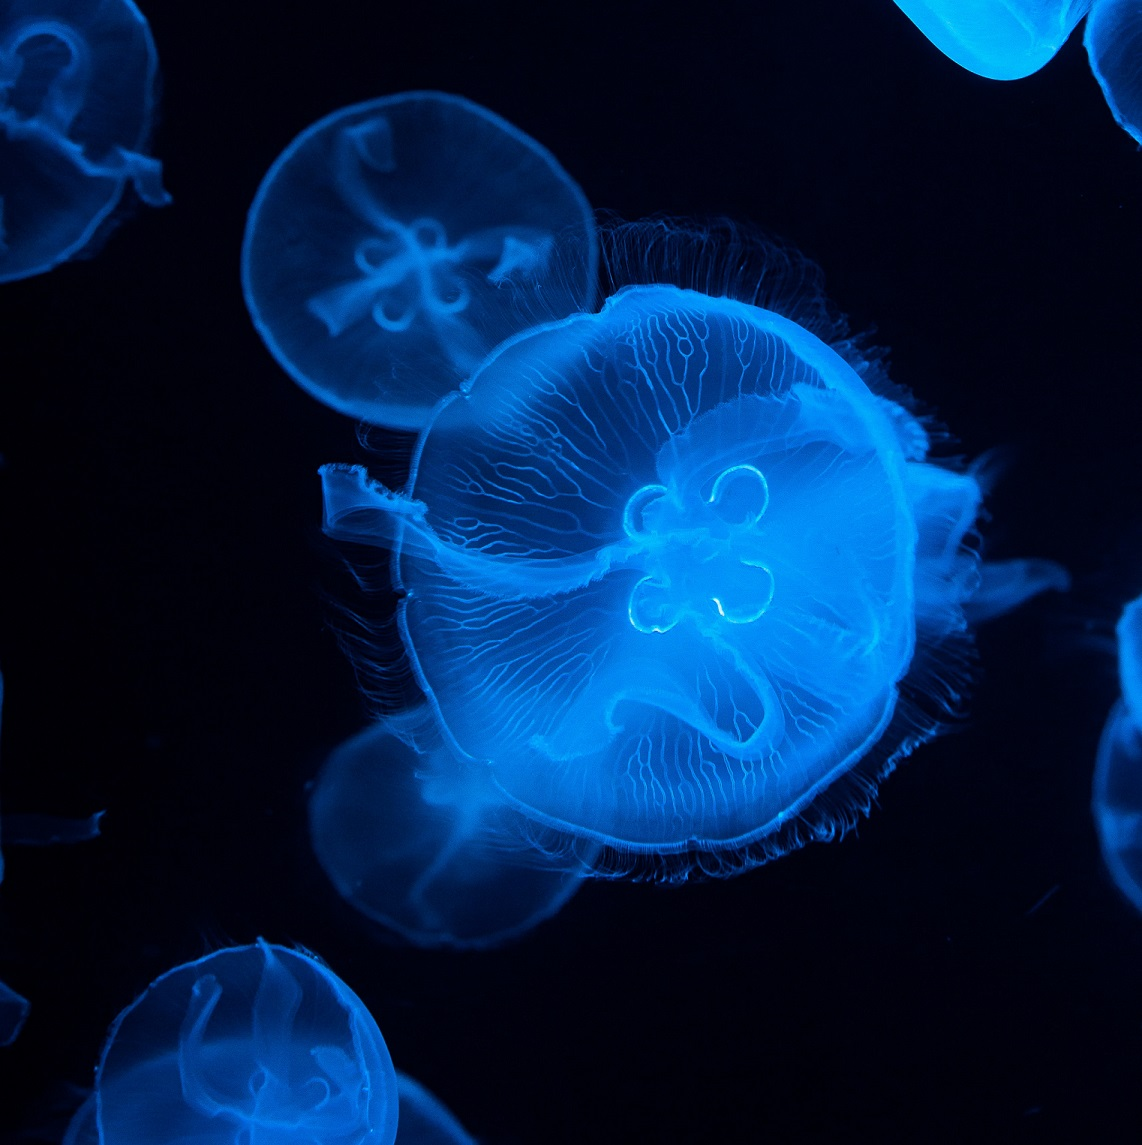
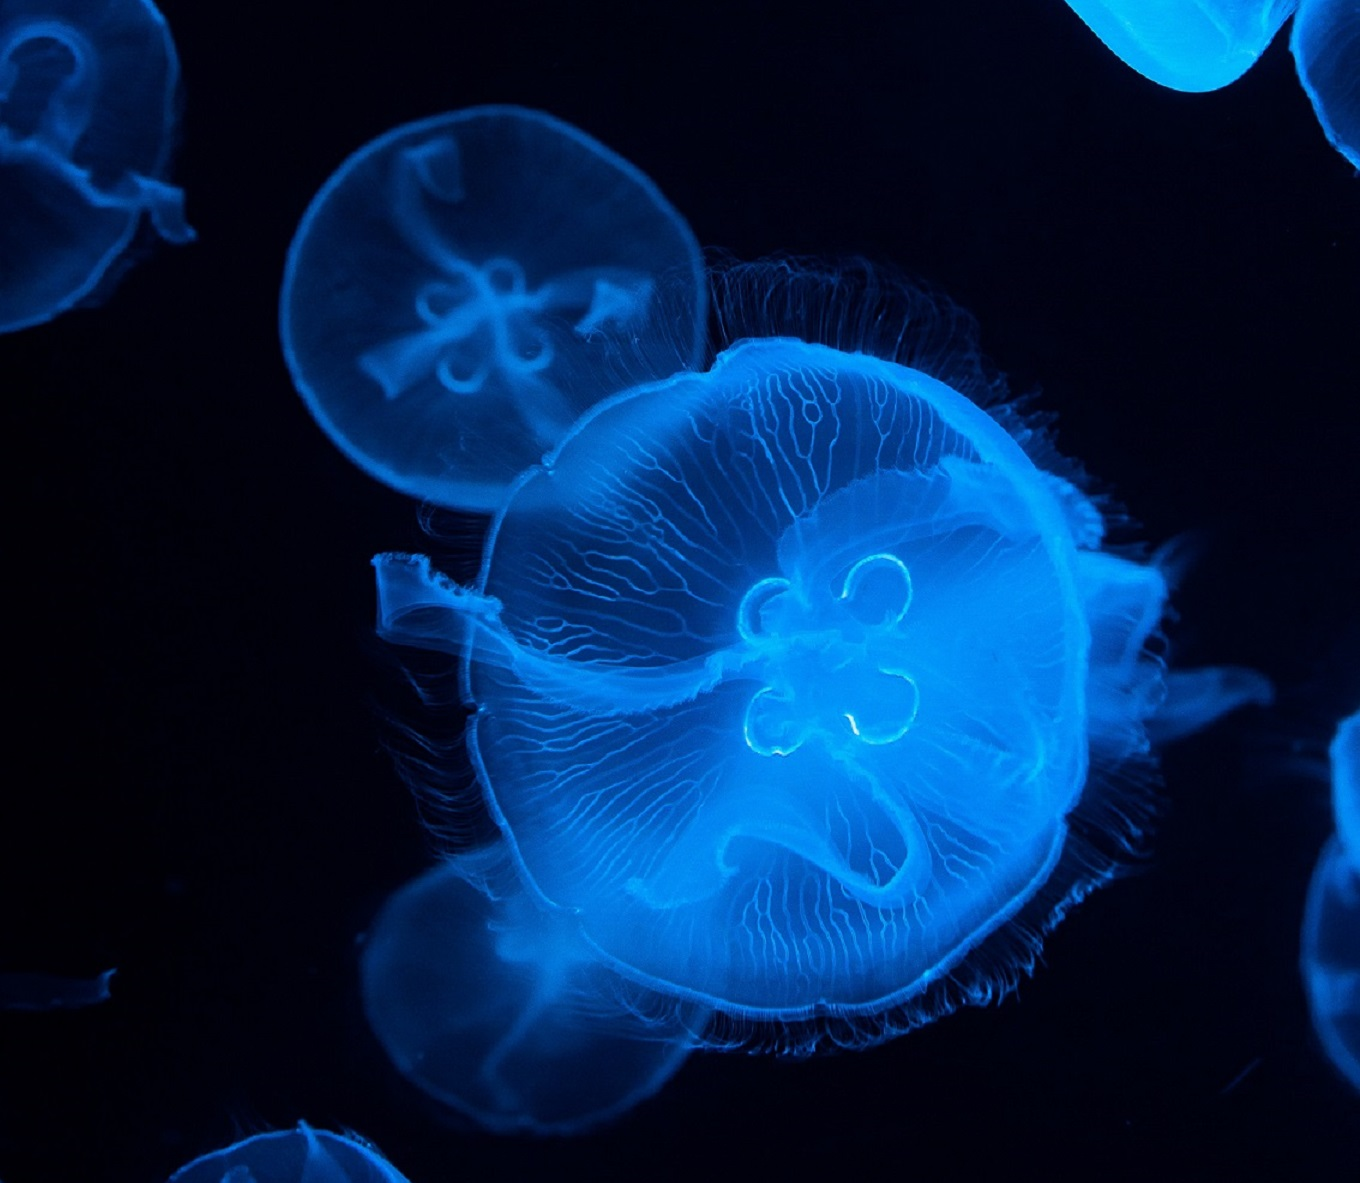
resized dive app photo

diff --git a/README.md b/README.md
@@ -8,4 +8,5 @@ Deployed at: https://starnes-development-portfolio.netlify.app/
 
 Photo Credits:
 -https://www.pexels.com/photo/wood-bird-art-construction-9891049/
--https://upload.wikimedia.org/wikipedia/commons/1/1d/US_Navy_110629-N-XD935-058_Chilean_navy_divers_walk_along_the_ocean_floor_during_diving_operations.jpg
+-https://www.pexels.com/photo/purple-and-white-petaled-flower-515631/
+-https://www.pexels.com/photo/moon-jellyfish-floating-in-water-5472598/
